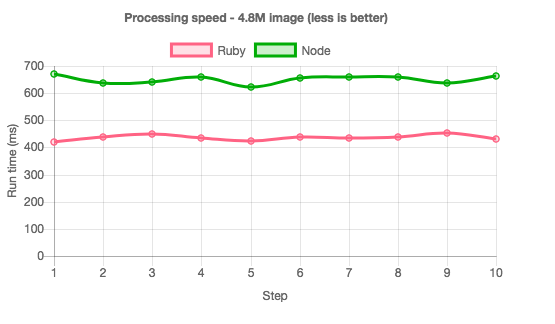
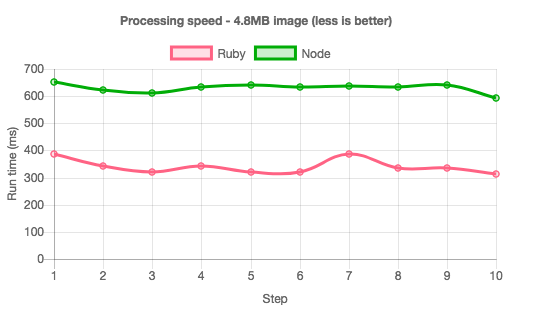
update large benchmark result

diff --git a/large-benchmark.html b/large-benchmark.html
@@ -15,14 +15,14 @@
       labels: ["1", "2", "3", "4", "5", "6", "7", "8", "9", "10"],
       datasets: [{
         label: 'Ruby',
-        data: [421, 440, 450, 434, 423, 437, 435, 438, 455, 432],
+        data: [387, 344, 320, 341, 320, 319, 386, 336, 334, 314],
         backgroundColor: 'rgba(255, 99, 132, 0.2)',
         fill: false,
         borderColor: 'rgba(255,99,132,1)',
       },
       {
         label: 'Node',
-        data: [671, 639, 641, 660, 623, 657, 661, 661, 636, 665],
+        data: [653, 622, 612, 634, 642, 635, 636, 633, 641, 595],
         backgroundColor: 'rgba(1, 173, 1, 0.2)',
         fill: false,
         borderColor: 'rgba(1, 173, 7, 1)',
@@ -32,7 +32,7 @@
     options: {
       title: {
         display: true,
-        text: 'Processing speed - 4.8M image (less is better)'
+        text: 'Processing speed - 4.8MB image (less is better)'
       },
       scales: {
         yAxes: [{
